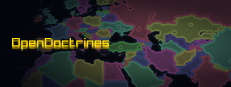
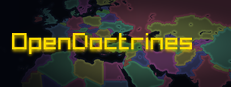
The small capsule's wordmark was eleven pixels tall
Sized at 42% of the capsule's width, which is fine at 460 across and mush at
231: thirteen glyphs got seven pixels each, and since the mark is a pixel font
lifted from the menu its strokes then land between output pixels. The haze was
the size, not the filter -- BOX and LANCZOS are equally unreadable there.

Legibility is an absolute height, so the fraction now has a floor of 22px,
capped at 80% of the width so the mark never runs edge to edge. Only the small
and vertical capsules move; header, main and library come out pixel-identical,
which is checked rather than assumed.

Changed region(s): [[0.0303, 0.3678, 0.8485, 0.6437]]

diff --git a/tools/banner.py b/tools/banner.py
@@ -373,7 +373,23 @@ def build(scenario: str, region_name: str, size_name: str, titled: bool,
 
     art = darken_for_text(base, 0.62).convert("RGBA")
     mark = _wordmark_fn()()
+    # ── A FRACTION OF THE WIDTH, WITH A FLOOR IN PIXELS ──
+    #
+    # 0.42 alone is wrong for the small capsule. Legibility is an ABSOLUTE
+    # height -- the wordmark is a pixel font lifted from the menu, and below
+    # about twenty pixels tall its strokes land between output pixels and the
+    # resample turns them to haze whatever the filter is. At 231x87 the
+    # fraction gave 97x11 for thirteen glyphs, seven pixels each, and the
+    # result read as a yellow smudge.
+    #
+    # So the fraction sets the size and MIN_MARK_H raises it when the capsule
+    # is small, capped so the mark never runs the full width. Only the two
+    # smallest capsules move: the header, main, library, hero and page
+    # background are all already above the floor and come out byte-identical.
+    MIN_MARK_H, MAX_FRAC = 22, 0.80
     w = int(size[0] * 0.42)
+    if mark.height * (w / mark.width) < MIN_MARK_H:
+        w = min(int(MIN_MARK_H * mark.width / mark.height), int(size[0] * MAX_FRAC))
     h = int(mark.height * (w / mark.width))
     mark = mark.resize((w, h), Image.LANCZOS)
 

diff --git a/docs/steam/README.md b/docs/steam/README.md
@@ -244,9 +244,14 @@ Each command writes two files — `banner-<size>.png` with the wordmark and
 `-plain.png` without. Use the titled one everywhere except the library hero,
 which sits *behind* the separate logo and must not have a second wordmark on it.
 
-For the **231×87 small capsule**, check it at actual size before uploading. A
-world map at that scale is a blue-grey smudge; if the wordmark does not read,
-crop tighter rather than shipping something illegible.
+For the **231×87 small capsule**, check it at actual size before uploading.
+The wordmark used to be the illegible part rather than the map: it is a pixel
+font lifted from the menu, and the 42%-of-width rule gave it eleven pixels of
+height for thirteen glyphs, at which point the strokes fall between output
+pixels and no resampling filter can save them. `banner.py` now floors the mark
+at 22 pixels tall, which moves the small and vertical capsules and leaves
+every larger one identical. If it still does not read, crop tighter rather
+than shipping something illegible.
 
 For the **library logo**, run `python3 tools/steam-logo.py`. It imports
 `tools/itch-cover.py`, which lifts the wordmark pixel-for-pixel out of the
